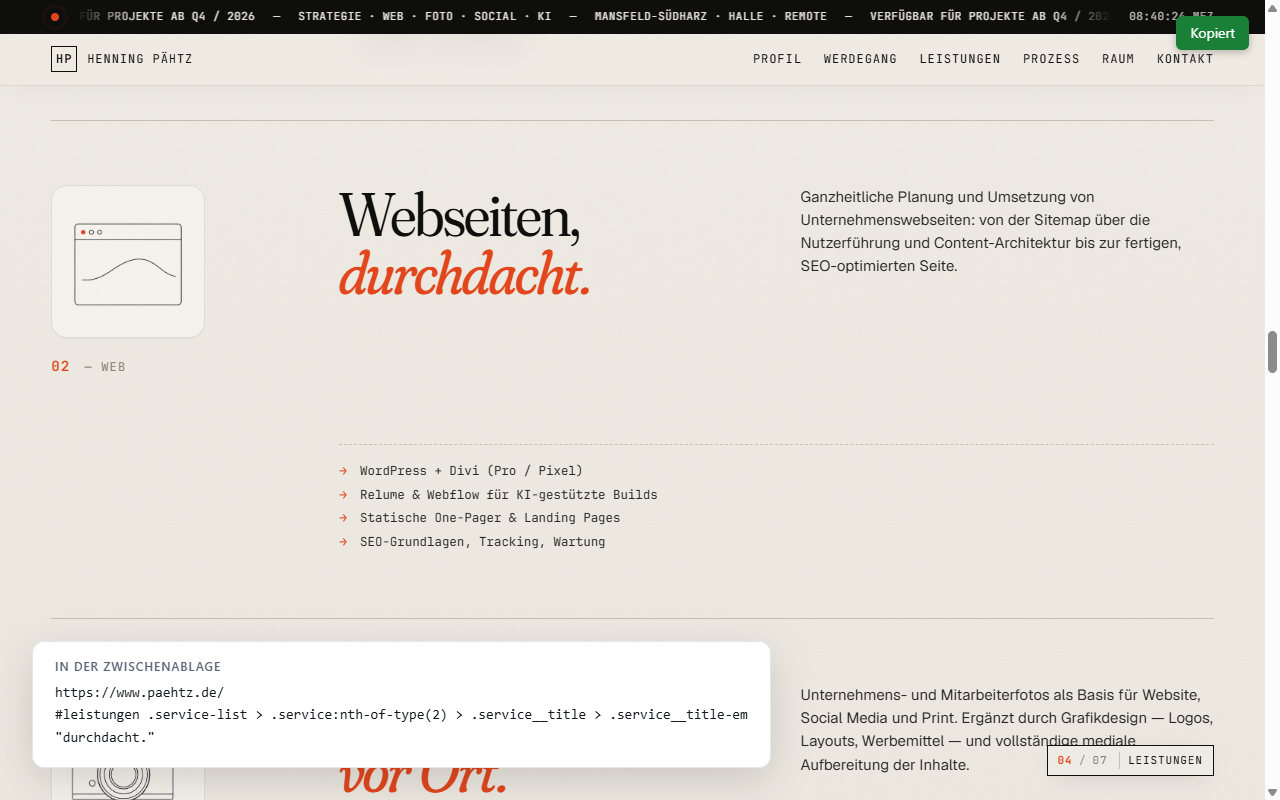
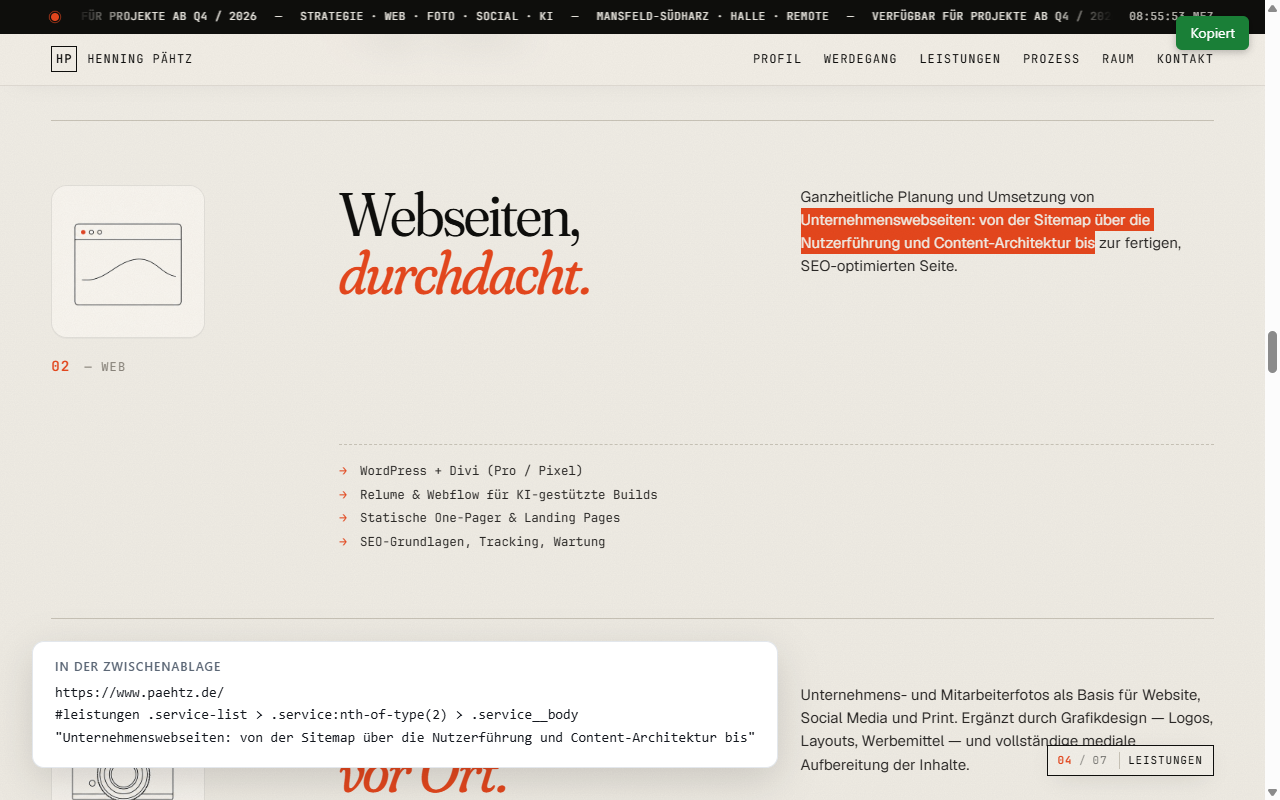
v1.3.0: Umbenennung in LLMent Picker; Textzeile nur bei Markierung
- Name, Slug, Add-on-ID, Repo-Ordner und Listing: LLMent Picker / llment-picker
- Dritte Zeile nur noch, wenn vorher Text markiert war: dann wird das
  Element der Markierung sofort kopiert (kein Picker-Modus), Text bis 240 Z.
- Klick auf einen Block ohne Markierung: nur URL + Selektor
- Kontextmenü: auf markiertem Text (info.selectionText) mit Text, sonst ohne
- Screenshot 2 zeigt jetzt den Markierungs-Workflow

diff --git a/picker.js b/picker.js
@@ -1,11 +1,11 @@
-// Element-Picker – Content-Script.
+// LLMent Picker – Content-Script.
 //
 // Wird bei jedem Aufruf frisch injiziert. Zwei Wege hinein:
 //
 //   a) Icon / Tastenkürzel → Picker-Modus: Hover zeichnet einen Rahmen
 //      (Overlay, das Ziel selbst wird nicht angefasst), Klick kopiert.
 //      Läuft der Picker bereits (Marker an `window`), wird er abgebrochen.
-//   b) Kontextmenü „Element-Picker: dieses Element kopieren" → das Hintergrund-
+//   b) Kontextmenü „LLMent Picker: dieses Element kopieren" → das Hintergrund-
 //      skript hinterlegt vorher `window.__elementPickerContextTarget`
 //      (targetElementId aus dem Menü-Klick); das Element wird sofort kopiert,
 //      ohne Picker-Modus.
@@ -13,7 +13,9 @@
 // Kopiert werden drei Zeilen:
 //   1. vollständige Seiten-URL (inkl. Hash)
 //   2. kürzester eindeutiger CSS-Selektor
-//   3. sichtbarer Textanfang in Anführungszeichen (max. 60 Zeichen)
+//   3. nur wenn vorher Text auf der Seite markiert war: der markierte Text in
+//      Anführungszeichen (max. 240 Zeichen) – dann wird das Element, das die
+//      Markierung enthält, sofort kopiert, ohne Picker-Modus
 
 (() => {
   const KEY = "__elementPickerInstance";
@@ -128,21 +130,25 @@
     return (anchor || "html") + " > " + full;
   }
 
-  function textSnippet(el) {
-    let t = "";
-    if (el.tagName === "IMG") t = el.getAttribute("alt") || "";
-    else if (el.tagName === "INPUT" || el.tagName === "TEXTAREA")
-      t = el.value || el.getAttribute("placeholder") || "";
-    else t = el.innerText || el.textContent || "";
-    t = t.replace(/\s+/g, " ").trim();
-    if (!t) return "";
-    return t.length > 60 ? t.slice(0, 60).trimEnd() + "…" : t;
+  // Markierter Text auf der Seite + das Element, das die Markierung umschließt.
+  // Nur eine echte Markierung liefert die dritte Zeile – ein angeklickter
+  // Block ohne Markierung bekommt keine, sonst läse ein Chat „dieser Text ist
+  // gemeint", obwohl der Block gemeint war.
+  const MAX_TEXT = 240;
+  function selectionTarget() {
+    const sel = window.getSelection();
+    if (!sel || sel.isCollapsed || sel.rangeCount === 0) return null;
+    const text = sel.toString().replace(/\s+/g, " ").trim();
+    if (!text) return null;
+    const node = sel.getRangeAt(0).commonAncestorContainer;
+    const el = node.nodeType === 1 ? node : node.parentElement;
+    if (!el || el === document.documentElement || el.hasAttribute("data-llment-picker")) return null;
+    return { el, text: text.length > MAX_TEXT ? text.slice(0, MAX_TEXT).trimEnd() + "…" : text };
   }
 
-  function payloadFor(el) {
+  function payloadFor(el, text) {
     const lines = [location.href, buildSelector(el)];
-    const snippet = textSnippet(el);
-    if (snippet) lines.push(JSON.stringify(snippet));
+    if (text) lines.push(JSON.stringify(text));
     return lines.join("\n");
   }
 
@@ -172,7 +178,7 @@
 
   function toast(msg, good) {
     const t = document.createElement("div");
-    t.setAttribute("data-element-picker", "");
+    t.setAttribute("data-llment-picker", "");
     t.textContent = msg;
     t.style.cssText = `position:fixed;top:16px;right:16px;z-index:${Z};pointer-events:none;
       font:14px/1 system-ui,sans-serif;color:#fff;background:${good ? "#1a7f37" : "#57606a"};
@@ -186,11 +192,11 @@
     }, 1400);
   }
 
-  async function copyElement(el) {
-    const text = payloadFor(el);
-    const ok = await copy(text);
+  async function copyElement(el, text) {
+    const payload = payloadFor(el, text);
+    const ok = await copy(payload);
     toast(ok ? "Kopiert" : "Kopieren fehlgeschlagen", ok);
-    window.__elementPickerLast = text; // für Tests / Debugging
+    window.__elementPickerLast = payload; // für Tests / Debugging
     return ok;
   }
 
@@ -205,14 +211,20 @@
     } catch {}
     const hovered = document.querySelectorAll(":hover");
     const el = hovered[hovered.length - 1];
-    return el && !el.hasAttribute("data-element-picker") ? el : null;
+    return el && !el.hasAttribute("data-llment-picker") ? el : null;
   }
 
   let contextFallback = false;
   if (window[CTX] != null) {
-    const id = window[CTX];
+    const { id, onSelection } = window[CTX];
     delete window[CTX];
     if (window[KEY]) window[KEY].cancel(true);
+    // Rechtsklick lag auf markiertem Text → Element der Markierung + Text
+    const marked = onSelection ? selectionTarget() : null;
+    if (marked) {
+      copyElement(marked.el, marked.text);
+      return;
+    }
     const el = contextTarget(id);
     if (el) {
       copyElement(el);
@@ -228,19 +240,29 @@
     return;
   }
 
+  // Ist Text markiert, ist das Ziel schon klar: Element + Markierung kopieren,
+  // kein Picker-Modus. (Für den Picker-Modus vorher die Markierung aufheben.)
+  if (!contextFallback) {
+    const marked = selectionTarget();
+    if (marked) {
+      copyElement(marked.el, marked.text);
+      return;
+    }
+  }
+
   const box = document.createElement("div");
-  box.setAttribute("data-element-picker", "");
+  box.setAttribute("data-llment-picker", "");
   box.style.cssText = `position:fixed;pointer-events:none;z-index:${Z};box-sizing:border-box;
     border:2px solid #0a84ff;background:rgba(10,132,255,.14);border-radius:2px;
     display:none;transition:none;`;
   const label = document.createElement("div");
-  label.setAttribute("data-element-picker", "");
+  label.setAttribute("data-llment-picker", "");
   label.style.cssText = `position:fixed;pointer-events:none;z-index:${Z};display:none;
     font:12px/1.4 ui-monospace,Menlo,Consolas,monospace;color:#fff;background:#0a84ff;
     padding:2px 6px;border-radius:3px;white-space:nowrap;max-width:60vw;overflow:hidden;
     text-overflow:ellipsis;`;
   const style = document.createElement("style");
-  style.setAttribute("data-element-picker", "");
+  style.setAttribute("data-llment-picker", "");
   style.textContent = `*, *::before, *::after { cursor: crosshair !important; }`;
   document.documentElement.append(box, label, style);
 
@@ -265,7 +287,7 @@
 
   function targetAt(x, y) {
     const el = document.elementFromPoint(x, y);
-    if (!el || el.hasAttribute("data-element-picker")) return null;
+    if (!el || el.hasAttribute("data-llment-picker")) return null;
     return el;
   }
 
@@ -334,6 +356,6 @@
     },
     // für Tests: Selektor eines beliebigen Elements berechnen
     buildSelector,
-    textSnippet,
+    selectionTarget,
   };
 })();

diff --git a/background.js b/background.js
@@ -1,11 +1,11 @@
-// Element-Picker – Hintergrundskript (Firefox: Event-Page, Chrome: Service-Worker).
+// LLMent Picker – Hintergrundskript (Firefox: Event-Page, Chrome: Service-Worker).
 //
 // Tut nichts, bis der Picker aufgerufen wird. Drei Wege:
 //   1. Toolbar-Icon
 //   2. Tastenkürzel (`_execute_action`; Firefox Strg+Alt+P, Chrome Alt+Shift+P –
 //      Chrome erlaubt keine Strg+Alt-Kombinationen; änderbar in den
 //      Add-on-/Erweiterungs-Einstellungen des Browsers)
-//   3. Kontextmenü „Element-Picker: dieses Element kopieren" – kopiert das
+//   3. Kontextmenü „LLMent Picker: dieses Element kopieren" – kopiert das
 //      rechtsgeklickte Element direkt, ohne Picker-Modus
 //
 // Es gibt keinen Zustand im Hintergrund. Toggle (zweiter Aufruf = Abbruch)
@@ -13,7 +13,7 @@
 
 const api = globalThis.browser ?? globalThis.chrome;
 const menus = api.menus ?? api.contextMenus;
-const MENU_ID = "element-picker-copy";
+const MENU_ID = "llment-picker-copy";
 
 async function inject(tabId, frameId, prelude) {
   const target = { tabId, frameIds: [frameId || 0] };
@@ -23,7 +23,7 @@ async function inject(tabId, frameId, prelude) {
   } catch (err) {
     // Typisch: privilegierte Seiten (about:*, chrome://, Add-on-Stores,
     // PDF-Viewer), auf denen der Browser kein Content-Script zulässt.
-    console.warn("Element-Picker: Injektion nicht möglich –", err && err.message);
+    console.warn("LLMent Picker: Injektion nicht möglich –", err && err.message);
   }
 }
 
@@ -39,7 +39,7 @@ api.action.onClicked.addListener((tab) => {
 menus.removeAll().then(() =>
   menus.create({
     id: MENU_ID,
-    title: "Element-Picker: dieses Element kopieren",
+    title: "LLMent Picker: dieses Element kopieren",
     contexts: ["all"],
   })
 );
@@ -47,9 +47,10 @@ menus.removeAll().then(() =>
 menus.onClicked.addListener((info, tab) => {
   if (info.menuItemId !== MENU_ID || !tab || tab.id == null) return;
   inject(tab.id, info.frameId, {
-    func: (id) => {
-      window.__elementPickerContextTarget = id;
+    // onSelection: Rechtsklick lag auf markiertem Text -> dritte Zeile mit dem Text
+    func: (ctx) => {
+      window.__elementPickerContextTarget = ctx;
     },
-    args: [info.targetElementId ?? -1],
+    args: [{ id: info.targetElementId ?? -1, onSelection: !!info.selectionText }],
   });
 });

diff --git a/store/demo.html b/store/demo.html
@@ -2,7 +2,7 @@
 <html lang="de">
 <head>
 <meta charset="utf-8">
-<title>Demo-Seite – Element-Picker</title>
+<title>Demo-Seite – LLMent Picker</title>
 <meta name="viewport" content="width=device-width,initial-scale=1">
 <style>
   :root{--ink:#14181f;--mute:#5b6675;--line:#e3e7ec;--bg:#f6f7f9;--card:#fff;--acc:#0a84ff}
@@ -86,6 +86,6 @@
   </section>
 </main>
 
-<footer><div class="wrap">Musterwerk GmbH · Demo-Seite für den Element-Picker · keine echten Daten</div></footer>
+<footer><div class="wrap">Musterwerk GmbH · Demo-Seite für den LLMent Picker · keine echten Daten</div></footer>
 </body>
 </html>

diff --git a/store/listing.md b/store/listing.md
@@ -4,52 +4,52 @@ Gilt für addons.mozilla.org (AMO) und den Chrome Web Store. Felder, die nur ein
 
 ## Name
 
-Element-Picker
+LLMent Picker
 
 ## Kurzbeschreibung (AMO „Summary", max. 250 Zeichen · Chrome „Beschreibung" im Manifest, max. 132)
 
-Klick auf ein Seitenelement kopiert URL, eindeutigen CSS-Selektor und Textanfang – für KI-Chats und Coding-Agenten.
+Klick auf ein Seitenelement kopiert URL und eindeutigen CSS-Selektor, markierter Text kommt mit – für KI-Chats und Coding-Agenten.
 
 ## Beschreibung (Deutsch)
 
-Wer mit einem KI-Assistenten an einer Webseite arbeitet, kennt das Problem: „Ich meine das zweite Kästchen unter der Überschrift" ist für Menschen klar, für ein Werkzeug nicht. Element-Picker macht aus einem Klick eine eindeutige Referenz.
+Wer mit einem KI-Assistenten an einer Webseite arbeitet, kennt das Problem: „Ich meine das zweite Kästchen unter der Überschrift" ist für Menschen klar, für ein Werkzeug nicht. LLMent Picker macht aus einem Klick eine eindeutige Referenz.
 
-Ein Klick auf das Toolbar-Icon (oder das Tastenkürzel), ein Klick auf das Element – und in der Zwischenablage liegen drei Zeilen:
+Ein Klick auf das Toolbar-Icon (oder das Tastenkürzel), ein Klick auf das Element – und in der Zwischenablage liegt eine eindeutige Referenz:
 
 1. die vollständige Seiten-URL
 2. ein CSS-Selektor, der genau dieses Element trifft, z. B. `#bereiche .values > .value:nth-of-type(2) > p`
-3. der sichtbare Textanfang in Anführungszeichen, damit der Leser das Element auch ohne die Seite erkennt
+3. und wenn Sie vorher Text markiert haben: der markierte Text in Anführungszeichen – dann geht es direkt um diese Stelle, und der Picker kopiert sofort das Element, das die Markierung enthält
 
 Das Ganze eingefügt in Claude, ChatGPT, Copilot, Cursor oder ein Ticket – und das Gegenüber weiß, welches Element gemeint ist.
 
 Der Selektor ist für Menschen lesbar und für Werkzeuge eindeutig: Er nutzt IDs und sprechende Klassen als Anker, greift auf Positionsangaben nur zurück, wo es nötig ist, und wird vor dem Kopieren gegen die Seite geprüft (genau ein Treffer). Zustands- und Animationsklassen werden ignoriert, damit der Selektor auch morgen noch stimmt.
 
 Bedienung:
-• Toolbar-Icon oder Tastenkürzel → Picker starten, Element unter der Maus wird umrahmt
-• Klick → kopieren, fertig
-• Rechtsklick → „Element-Picker: dieses Element kopieren" → ohne Picker-Modus direkt kopieren
+• Text markieren, dann Icon oder Tastenkürzel → Element der Markierung + Text sofort kopiert
+• Nichts markiert: Icon oder Tastenkürzel → Picker starten, Element unter der Maus wird umrahmt, Klick kopiert
+• Rechtsklick → „LLMent Picker: dieses Element kopieren" → ohne Picker-Modus direkt kopieren (auf markiertem Text: mit Text)
 • Escape → abbrechen
 
 Datenschutz: Die Erweiterung tut nichts, bis Sie sie aufrufen. Sie läuft nur auf der Seite, auf der Sie sie starten (activeTab), sendet nichts, speichert nichts, erhebt nichts. Quellcode auf GitHub.
 
 ## Description (English)
 
-Working on a web page with an AI assistant, you hit this constantly: "I mean the second box under the heading" is clear to a person and useless to a tool. Element-Picker turns one click into an unambiguous reference.
+Working on a web page with an AI assistant, you hit this constantly: "I mean the second box under the heading" is clear to a person and useless to a tool. LLMent Picker turns one click into an unambiguous reference.
 
-Click the toolbar icon (or press the shortcut), click the element – and your clipboard holds three lines:
+Click the toolbar icon (or press the shortcut), click the element – and your clipboard holds an unambiguous reference:
 
 1. the full page URL
 2. a CSS selector that matches exactly this element, e.g. `#bereiche .values > .value:nth-of-type(2) > p`
-3. the element's visible text (first 60 characters) in quotes, so a reader recognises it without opening the page
+3. and if you selected text first: the selected text in quotes – meaning "this passage", and the picker copies the element containing the selection right away
 
 Paste that into Claude, ChatGPT, Copilot, Cursor or a ticket, and the other side knows which element you mean.
 
 Selectors are readable for humans and unambiguous for tools: IDs and meaningful class names serve as anchors, positional indices are used only where needed, and every selector is verified against the page before copying (exactly one match). State and animation classes are ignored so the selector still works tomorrow.
 
 Usage:
-• Toolbar icon or shortcut → start the picker; the element under the cursor gets an outline
-• Click → copied, done
-• Right-click → "Element-Picker: copy this element" → copies directly, no picker mode
+• Select text, then icon or shortcut → element containing the selection + text copied immediately
+• Nothing selected: icon or shortcut → start the picker; the element under the cursor gets an outline; click copies
+• Right-click → "LLMent Picker: copy this element" → copies directly, no picker mode (on selected text: with the text)
 • Escape → cancel
 
 Privacy: the extension does nothing until you invoke it. It runs only on the page where you start it (activeTab), sends nothing, stores nothing, collects nothing. Source on GitHub.
@@ -68,7 +68,7 @@ Privacy: the extension does nothing until you invoke it. It runs only on the pag
 | `contextMenus` / `menus` | Ein Eintrag im Kontextmenü, um das rechtsgeklickte Element direkt zu kopieren. |
 | `clipboardWrite` | Die drei Zeilen werden in die Zwischenablage geschrieben. Beim Kontextmenü-Weg gibt es keine Klick-Geste auf der Seite; ohne diese Berechtigung würde das Schreiben dort scheitern. |
 
-**Single purpose (Chrome):** Kopiert für ein angeklicktes Seitenelement URL, eindeutigen CSS-Selektor und Textanfang in die Zwischenablage.
+**Single purpose (Chrome):** Kopiert für ein angeklicktes Seitenelement URL, eindeutigen CSS-Selektor und optional den markierten Text in die Zwischenablage.
 
 **Remote code (Chrome):** Nein – kein Nachladen, kein eval externer Inhalte.
 
@@ -78,11 +78,11 @@ Privacy: the extension does nothing until you invoke it. It runs only on the pag
 
 ## Datenschutzerklärung (falls ein Feld eine verlangt)
 
-Element-Picker erhebt, speichert und überträgt keine personenbezogenen Daten. Die Erweiterung hat keine Netzwerkzugriffe, keinen Speicher und keine Analyse-Funktionen. Der einzige Vorgang ist das Schreiben der vom Nutzer ausgewählten Elementreferenz in die lokale Zwischenablage; sie verlässt das Gerät nicht. Verantwortlich: Henning Pähtz, Lutherstadt Eisleben, henning@paehtz.de.
+LLMent Picker erhebt, speichert und überträgt keine personenbezogenen Daten. Die Erweiterung hat keine Netzwerkzugriffe, keinen Speicher und keine Analyse-Funktionen. Der einzige Vorgang ist das Schreiben der vom Nutzer ausgewählten Elementreferenz in die lokale Zwischenablage; sie verlässt das Gerät nicht. Verantwortlich: Henning Pähtz, Lutherstadt Eisleben, henning@paehtz.de.
 
 ## Entwicklerprofil (für die Namensverknüpfung)
 
 - Anzeigename: **Henning Pähtz**
 - Homepage: https://www.paehtz.de
-- Support-/Quellcode-Link: https://github.com/paehtz/element-picker
+- Support-/Quellcode-Link: https://github.com/paehtz/llment-picker
 - Autor im Manifest: Henning Pähtz (Firefox zeigt ihn auf der Add-on-Seite)

diff --git a/README.md b/README.md
@@ -1,4 +1,4 @@
-# Element-Picker (Firefox & Chrome)
+# LLMent Picker (Firefox & Chrome)
 
 Ein Klick auf ein Seitenelement kopiert drei Zeilen in die Zwischenablage – zum
 Einfügen in einen Chat mit einem Coding-Agenten („dieses Element meine ich"):
@@ -11,16 +11,19 @@ https://www.wolf-automobile.com/team/#bereiche
 
 1. vollständige Seiten-URL (inkl. Hash)
 2. kürzester CSS-Selektor, der das Element eindeutig trifft
-3. sichtbarer Textanfang (max. 60 Zeichen)
+3. **nur wenn vorher Text markiert war:** der markierte Text in Anführungszeichen (max. 240 Zeichen)
 
 ## Bedienung
 
 | Aktion | Wirkung |
 |---|---|
-| Toolbar-Icon oder **Strg+Alt+P** (Firefox) / **Alt+Shift+P** (Chrome) | Picker starten – Cursor wird zum Fadenkreuz, Element unter der Maus bekommt einen Rahmen |
+| Text auf der Seite markieren, dann Toolbar-Icon oder Kürzel | kopiert sofort das Element, das die Markierung enthält, plus den markierten Text als dritte Zeile – kein Picker-Modus |
+| Toolbar-Icon oder **Strg+Alt+P** (Firefox) / **Alt+Shift+P** (Chrome), nichts markiert | Picker starten – Cursor wird zum Fadenkreuz, Element unter der Maus bekommt einen Rahmen |
 | Klick | kopiert die drei Zeilen, Picker beendet sich, Toast „Kopiert" |
 | **Escape** oder erneut Icon/Kürzel | Abbruch ohne Kopieren |
-| **Rechtsklick → „Element-Picker: dieses Element kopieren"** | kopiert das rechtsgeklickte Element direkt, ohne Picker-Modus |
+| **Rechtsklick → „LLMent Picker: dieses Element kopieren"** | kopiert das rechtsgeklickte Element direkt, ohne Picker-Modus; liegt der Rechtsklick auf markiertem Text, kommt der Text als dritte Zeile mit |
+
+Die dritte Zeile gibt es also nur, wenn Du sie durch eine Markierung ausdrücklich verlangst. Ein angeklickter Block ohne Markierung liefert nur URL und Selektor – sonst läse ein Chat „dieser Satz ist gemeint", obwohl der Block gemeint war.
 
 Kürzel ändern: Firefox `about:addons` → Zahnrad → „Tastenkombinationen für Erweiterungen verwalten"; Chrome `chrome://extensions/shortcuts`. (Alt+Shift+P öffnet in Firefox die Profilverwaltung; Chrome erlaubt keine Strg+Alt-Kombinationen – daher zwei Standards.)
 
@@ -59,14 +62,14 @@ store/                Listing-Texte, Berechtigungsbegründungen, Screenshots, De
 
 **Firefox (temporär – nach Neustart wieder weg):** `about:debugging` → „Dieser Firefox" → „Temporäres Add-on laden…" → `manifest.json` aus diesem Ordner. Nach Code-Änderungen dort „Neu laden" klicken – es gibt keine automatische Aktualisierung.
 
-**Chrome (bleibt, solange der Ordner existiert):** erst `.uild.ps1`, dann `chrome://extensions` → „Entwicklermodus" an → „Entpackte Erweiterung laden" → Ordner `dist/chrome/element-picker`. Nach Änderungen: neu bauen und auf der Karte „Aktualisieren" klicken.
+**Chrome (bleibt, solange der Ordner existiert):** erst `.uild.ps1`, dann `chrome://extensions` → „Entwicklermodus" an → „Entpackte Erweiterung laden" → Ordner `dist/chrome/llment-picker`. Nach Änderungen: neu bauen und auf der Karte „Aktualisieren" klicken.
 
 ### Dauerhaft: bei Mozilla signieren lassen (empfohlen)
 
 Firefox installiert nur signierte Add-ons dauerhaft. Die Signierung ist kostenlos, braucht keine Veröffentlichung („self-distributed") und dauert meist wenige Minuten:
 
 1. Konto anlegen unter https://addons.mozilla.org (AMO), dann https://addons.mozilla.org/developers/ → „Submit a New Add-on" → **„On your own"** (nicht „On this site").
-2. `.uild.ps1` ausführen und `dist/firefox/element-picker-<version>.zip` hochladen.
+2. `.uild.ps1` ausführen und `dist/firefox/llment-picker-<version>.zip` hochladen.
 3. Nach der automatischen Prüfung die signierte `.xpi` herunterladen und per Doppelklick bzw. Drag & Drop auf ein Firefox-Fenster installieren.
 
 Alternativ per Kommandozeile (API-Key unter https://addons.mozilla.org/developers/addon/api/key/):
@@ -83,7 +86,7 @@ Firefox Developer Edition oder Nightly mit `xpinstall.signatures.required = fals
 
 ### Chrome Web Store
 
-Einmalig 5 USD Entwickler-Registrierung unter https://chrome.google.com/webstore/devconsole. Dann „Neues Element" → `dist/chrome/element-picker-chrome-<version>.zip` hochladen, Listing-Texte, Screenshots und Berechtigungsbegründungen aus `store/listing.md` eintragen. Review dauert typisch 1–3 Tage. Chrome installiert nur Erweiterungen aus dem Store dauerhaft (entpackte Erweiterungen bleiben, solange der Ordner existiert, mit Hinweisbanner).
+Einmalig 5 USD Entwickler-Registrierung unter https://chrome.google.com/webstore/devconsole. Dann „Neues Element" → `dist/chrome/llment-picker-chrome-<version>.zip` hochladen, Listing-Texte, Screenshots und Berechtigungsbegründungen aus `store/listing.md` eintragen. Review dauert typisch 1–3 Tage. Chrome installiert nur Erweiterungen aus dem Store dauerhaft (entpackte Erweiterungen bleiben, solange der Ordner existiert, mit Hinweisbanner).
 
 ## Entwicklung
 
